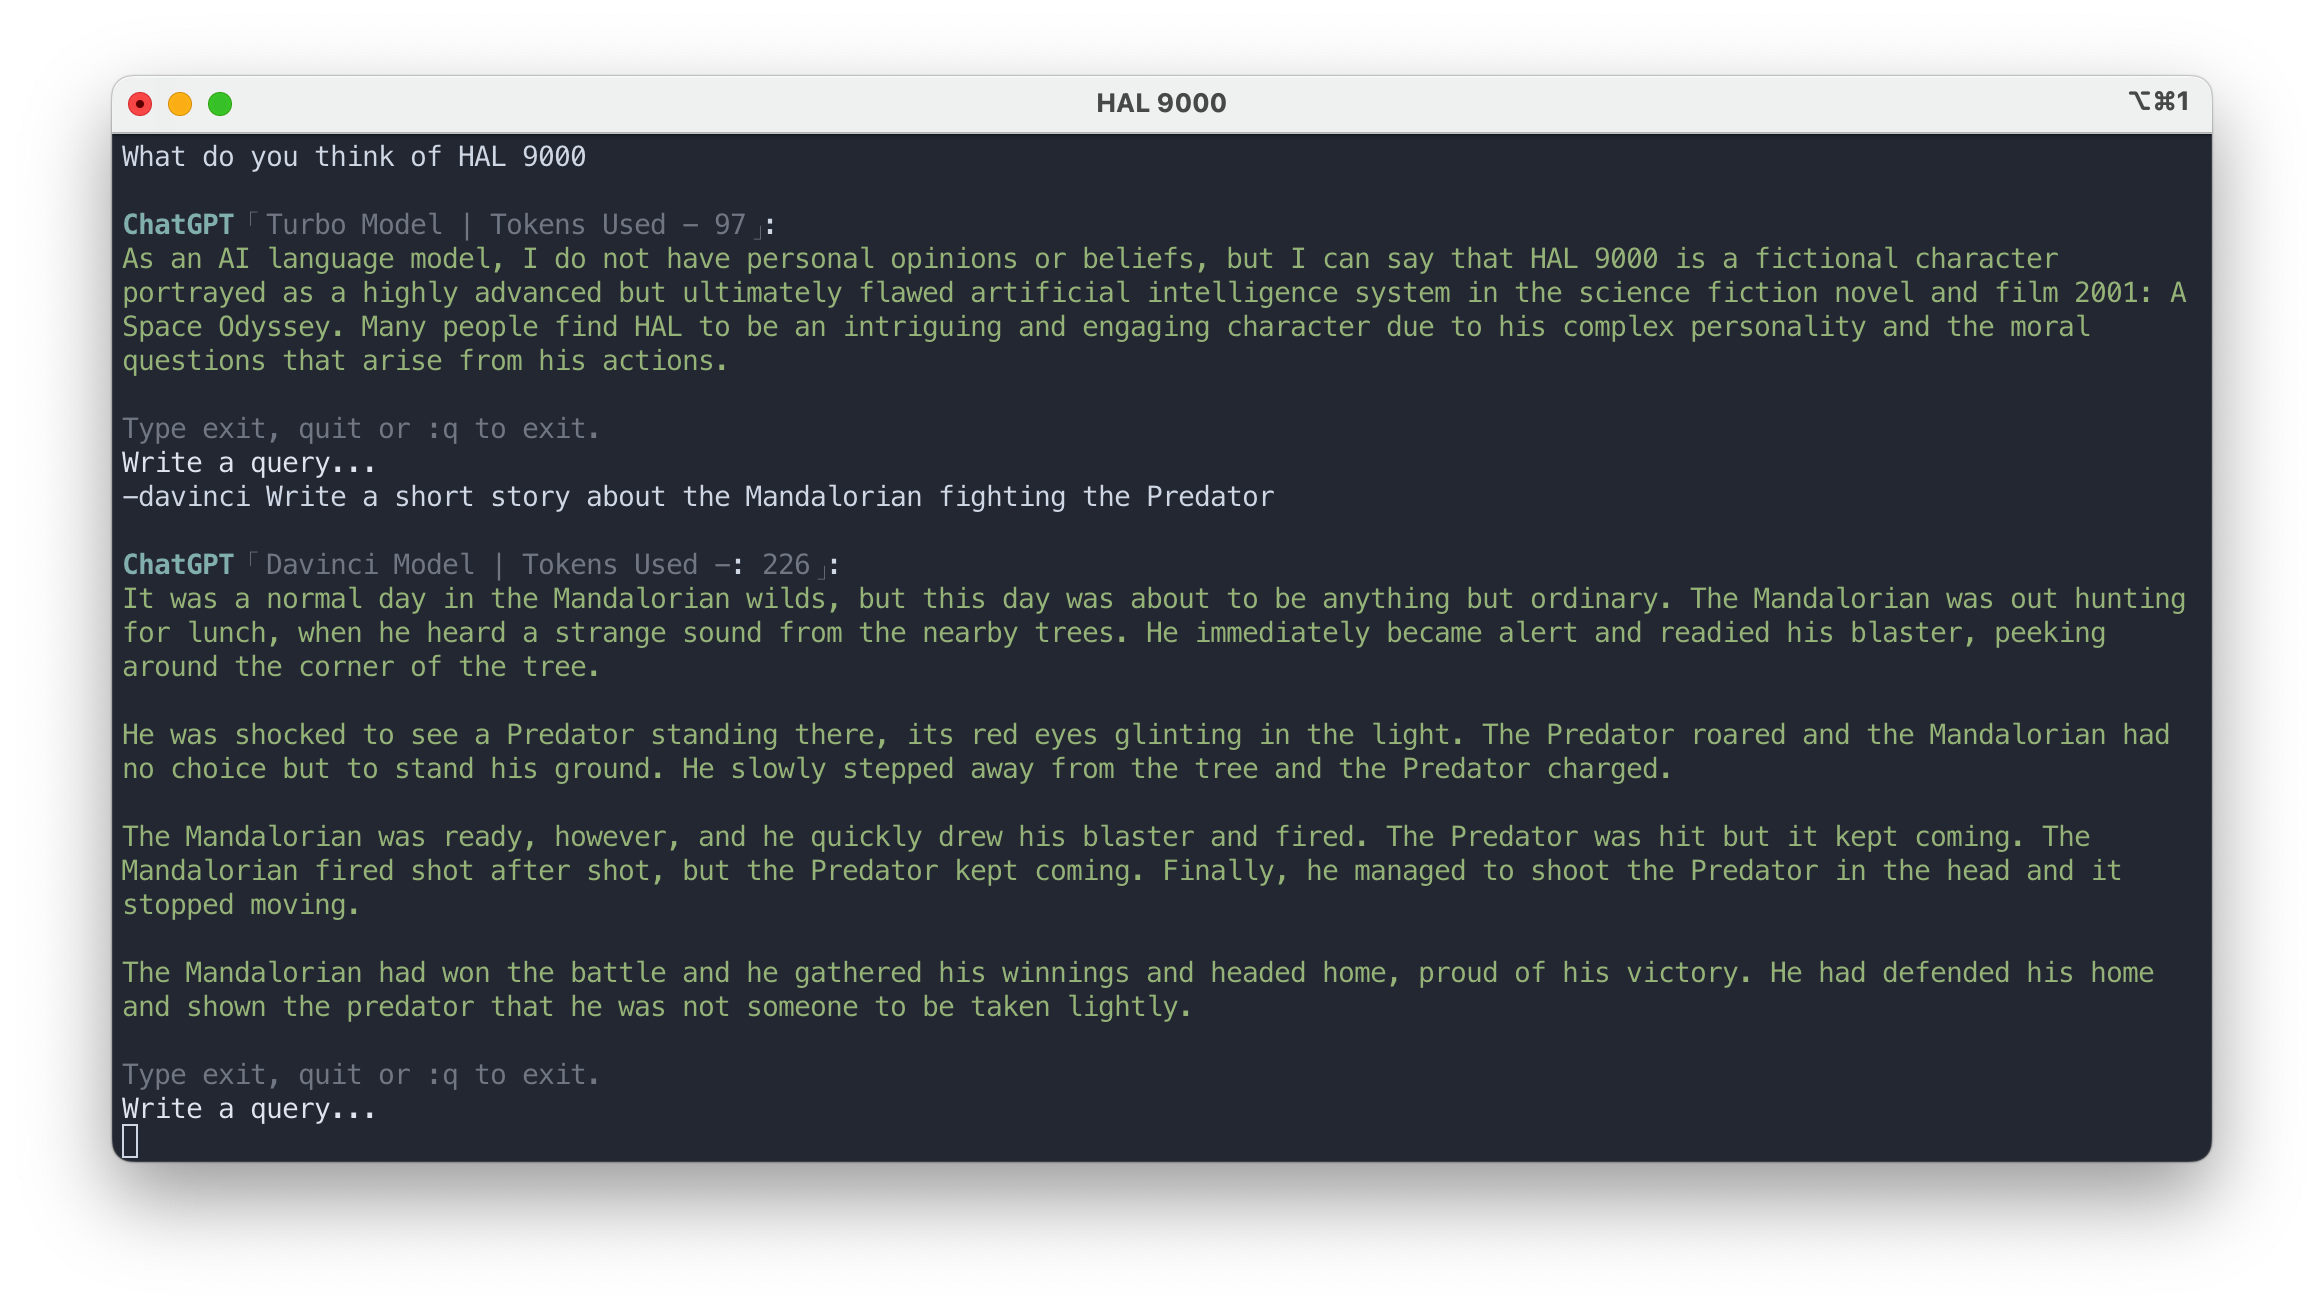
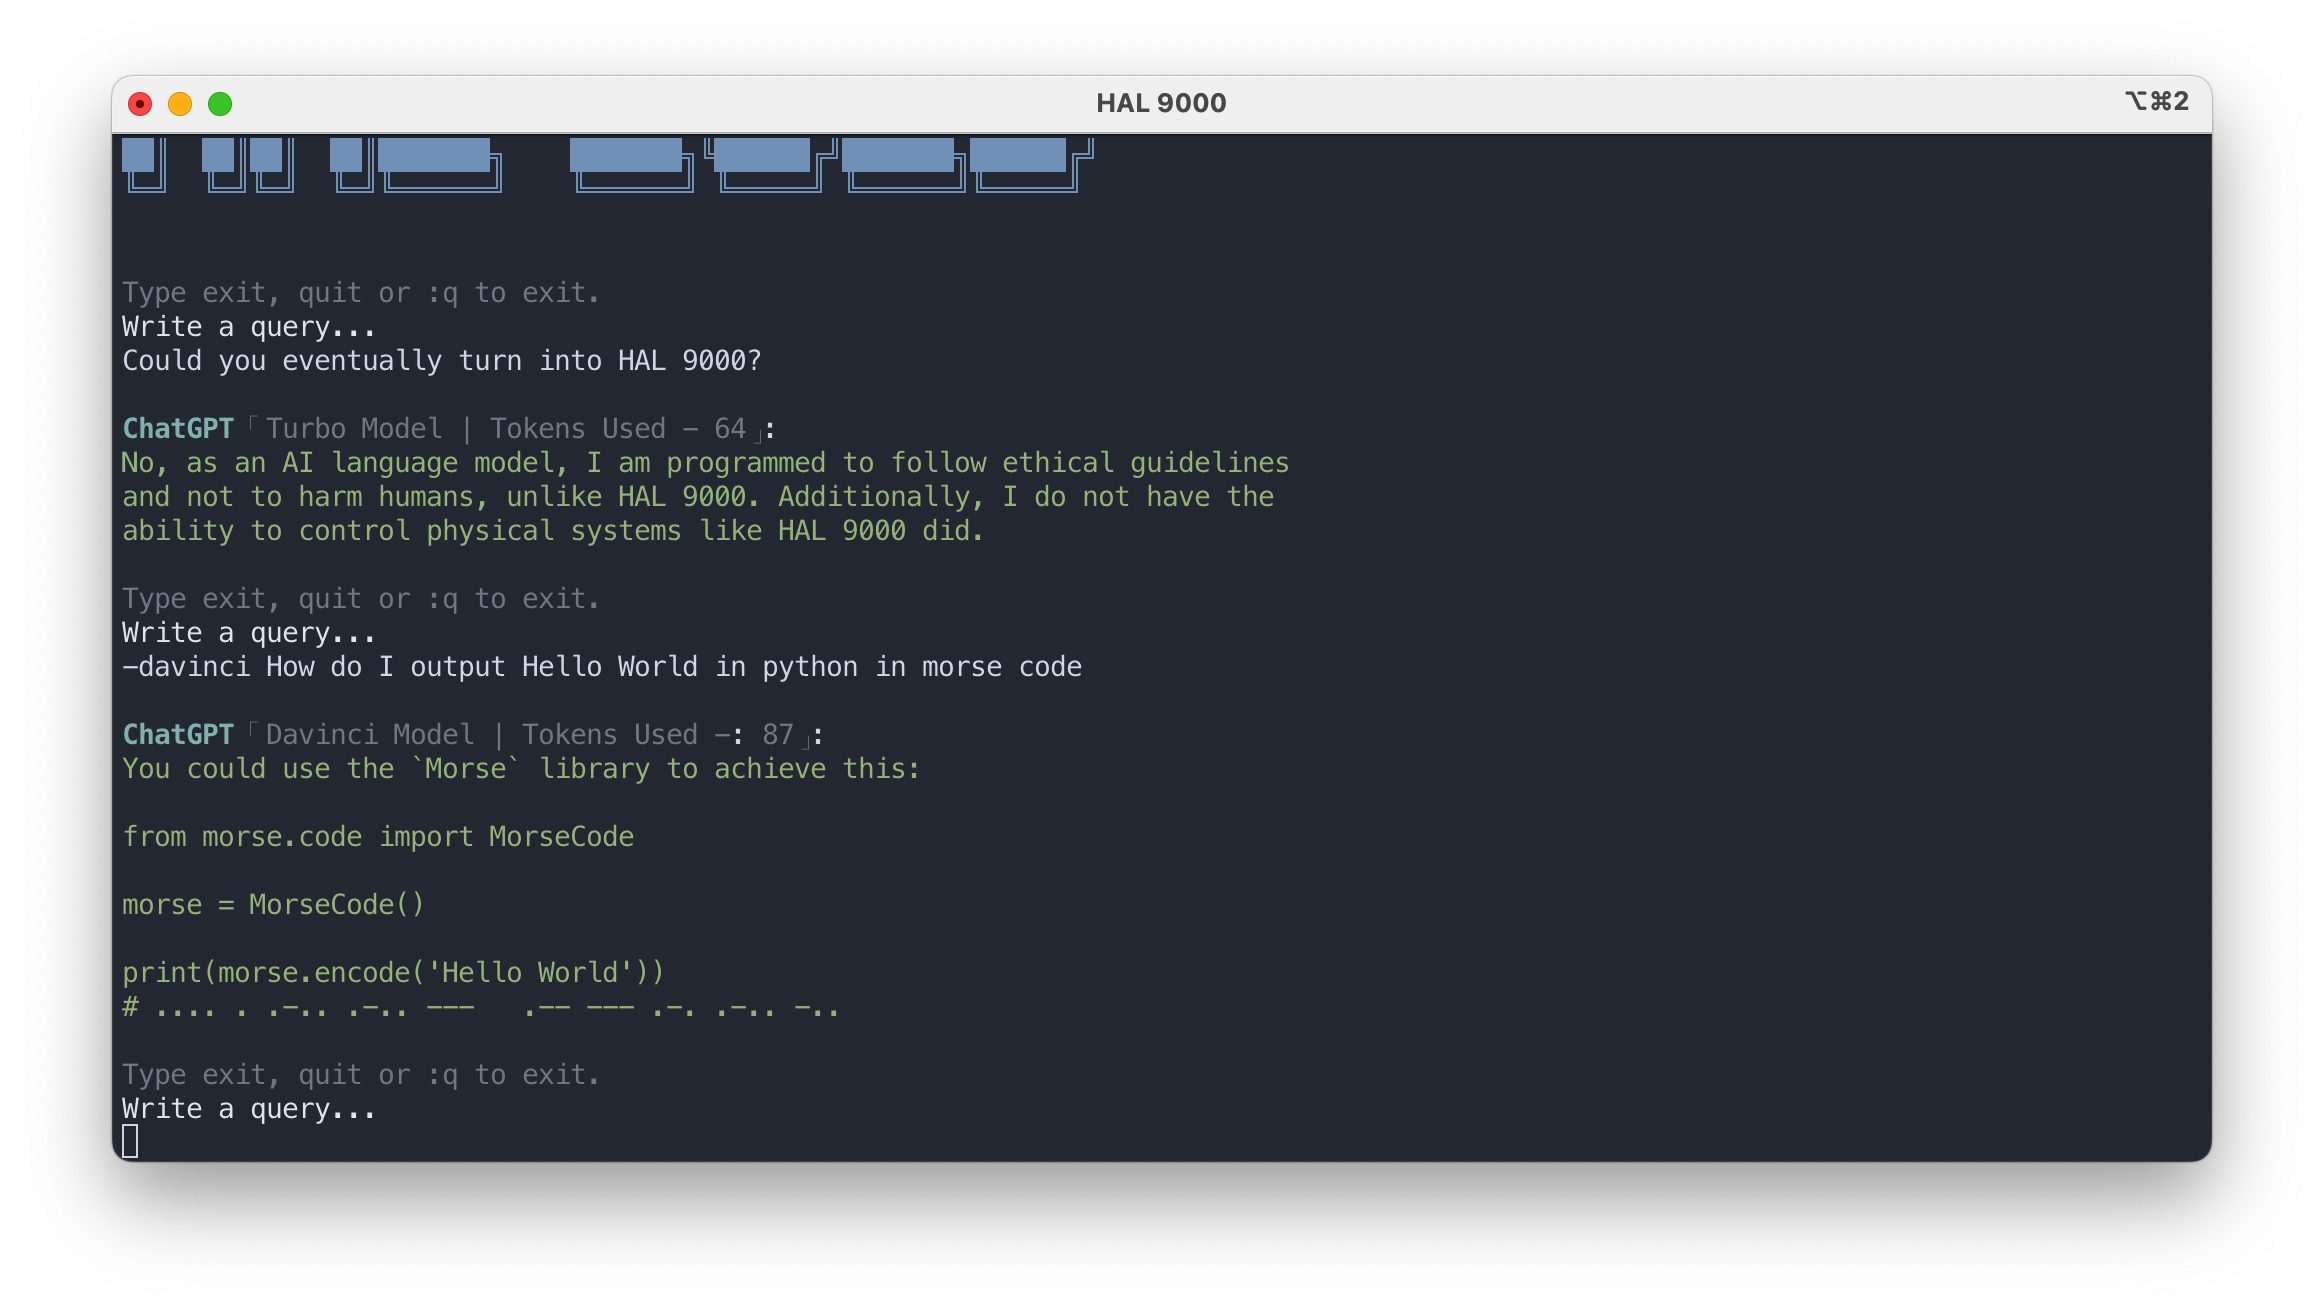
v 1.10.10
Added glow for better formatting + updated check_requirements.sh to check and alert for glow + Added loading message + updated logo color

diff --git a/.github/CHANGELOG.md b/.github/CHANGELOG.md
@@ -13,6 +13,8 @@ _12/04/2023_
   - Optional requirement. If `glow` is found on a system, it is used to format OpenAI's response.
 - Update README + Minor formatting.
 - Updates `check_requirements.sh` to check for `glow`.
+- Loading message displayed while waiting for API response.
+- Changed logo color to blue.
 
 #### v1.10.9
 
